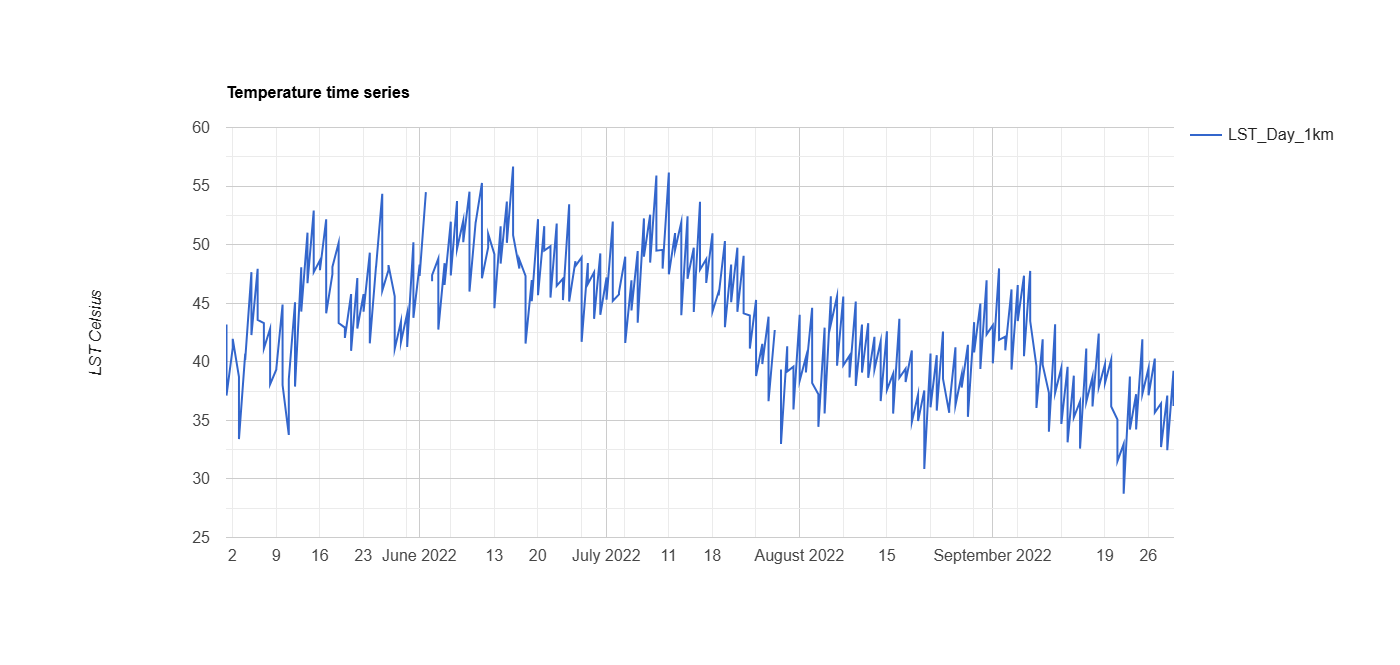
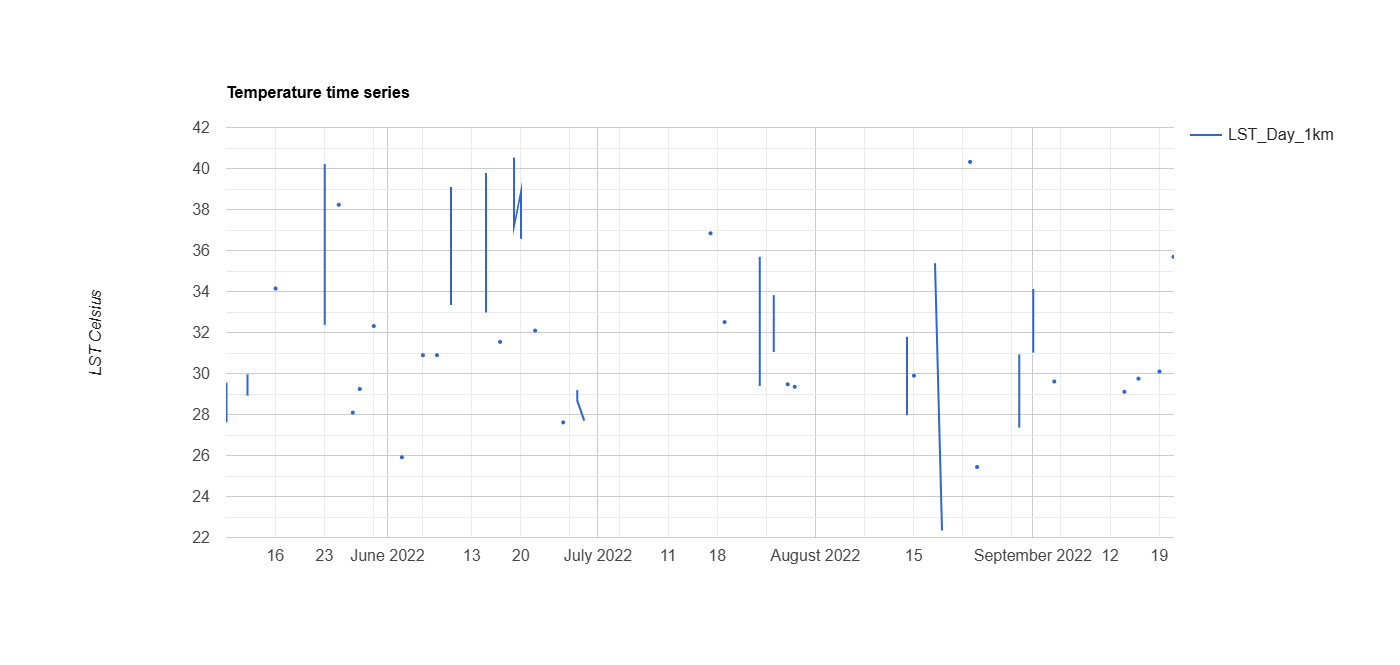
commit

diff --git a/docs/temperature.html b/docs/temperature.html
@@ -390,11 +390,12 @@ div.csl-indent {
   <li><a href="#summary" id="toc-summary" class="nav-link active" data-scroll-target="#summary"><span class="header-section-number">8.1</span> Summary</a>
   <ul class="collapse">
   <li><a href="#land-surface-temperature" id="toc-land-surface-temperature" class="nav-link" data-scroll-target="#land-surface-temperature"><span class="header-section-number">8.1.1</span> Land Surface Temperature</a></li>
-  <li><a href="#urban-heat-island-effect" id="toc-urban-heat-island-effect" class="nav-link" data-scroll-target="#urban-heat-island-effect"><span class="header-section-number">8.1.2</span> Urban Heat Island Effect</a></li>
   </ul></li>
   <li><a href="#applications" id="toc-applications" class="nav-link" data-scroll-target="#applications"><span class="header-section-number">8.2</span> Applications</a>
   <ul class="collapse">
-  <li><a href="#lst-products" id="toc-lst-products" class="nav-link" data-scroll-target="#lst-products"><span class="header-section-number">8.2.1</span> LST Products</a></li>
+  <li><a href="#urban-heat-island-effect" id="toc-urban-heat-island-effect" class="nav-link" data-scroll-target="#urban-heat-island-effect"><span class="header-section-number">8.2.1</span> Urban Heat Island Effect</a></li>
+  <li><a href="#methodological-limitations" id="toc-methodological-limitations" class="nav-link" data-scroll-target="#methodological-limitations"><span class="header-section-number">8.2.2</span> Methodological Limitations</a></li>
+  <li><a href="#products-for-lst" id="toc-products-for-lst" class="nav-link" data-scroll-target="#products-for-lst"><span class="header-section-number">8.2.3</span> Products for LST</a></li>
   </ul></li>
   <li><a href="#reflections" id="toc-reflections" class="nav-link" data-scroll-target="#reflections"><span class="header-section-number">8.3</span> Reflections</a></li>
   </ul>
@@ -423,16 +424,16 @@ div.csl-indent {
 </header>
 
 
-<p>This section will go through how to conduct temperature research through GEE. Building upon the early chapters of discussing Urban Heat Island Effect in <a href="https://christychoicc.github.io/RSCE/policy.html">Policy</a>, this section will focus on land surface temperature……</p>
+<p>This section will be focused on using Google Earth Engine to explore land surface temperature (LST) and compare how thermal patterns vary across different climates, spatial scales and satellite products. Building upon the early chapters of discussing Urban Heat Island Effect (UHI) in <a href="https://christychoicc.github.io/RSCE/policy.html">Policy</a>, this section will also look at how land surface temperature can be used to mitigate UHI and policy relevance.</p>
 <section id="summary" class="level2" data-number="8.1">
 <h2 data-number="8.1" class="anchored" data-anchor-id="summary"><span class="header-section-number">8.1</span> Summary</h2>
 <section id="land-surface-temperature" class="level3" data-number="8.1.1">
 <h3 data-number="8.1.1" class="anchored" data-anchor-id="land-surface-temperature"><span class="header-section-number">8.1.1</span> Land Surface Temperature</h3>
-<p>Land Surface Temperature (LST) is a parameter that reflects land-atmosphere interactions from regional to global scales as well as an indicator that influences vegetation growth <span class="citation" data-cites="li2023a">(<a href="references.html#ref-li2023a" role="doc-biblioref">Li et al. 2023</a>)</span>. Urbanisation, increasing population has caused more land surfaces to be covered with concrete, asphalt and other impervious materials that absorb and retain heat, which contributes to higher land surface temperatures within our urban environments.</p>
+<p>Land Surface Temperature (LST) is a parameter that reflects land-atmosphere interactions from regional to global scales as well as an indicator that influences vegetation growth <span class="citation" data-cites="li2023a">(<a href="references.html#ref-li2023a" role="doc-biblioref">Li et al. 2023</a>)</span>. Urbanisation, increasing population has caused more land surfaces to be covered with concrete, asphalt and other impervious materials that absorb and retain heat. This contributes to higher land surface temperatures within our urban environments, which is a matter policy makers and global goals want to resolve.</p>
 <section id="lst-in-gee" class="level4" data-number="8.1.1.1">
 <h4 data-number="8.1.1.1" class="anchored" data-anchor-id="lst-in-gee"><span class="header-section-number">8.1.1.1</span> LST in GEE</h4>
-<p>The below compares the difference between Landsat and MODIS for temperature analysis with a temperature range between 20°C and 55°C. Landsat gave much more spatial detail, which made it easier to identify finer scale thermal variation and smaller hot and cooler patterns within urban areas. In contrast, MODIS is more coarse, useful for broader wider scale temporal monitoring with its more frequent observations. Taking it further, I have been quite curious to look at how thermal patterns varies across different climate and urban forms. So the following will inspect Bangkok, Thailand (city scale) and Arizona, USA (state scale) under Landsat 8 and MOD</p>
-<p>Bangkok is characterised with a hot, humid and rainy summer climate, which appears to have a more mixed and fragmented temperature pattern, with greater small-scale variation across the urban area.</p>
+<p>The below compares the difference between Landsat and MODIS for temperature analysis with a temperature range between 20°C and 55°C. Landsat gave much more spatial detail, which made it easier to identify finer scale thermal variation and smaller hot and cooler patterns within urban areas. In contrast, MODIS is more coarse, useful for broader wider scale temporal monitoring with its more frequent observations. Taking it further, I have been quite curious to look at how thermal patterns varies across different climate and urban forms. So the following will inspect Bangkok, Thailand (city scale) and Arizona, USA (state scale) LST under Landsat 8 and MODIS.</p>
+<p>Bangkok is characterised with a hot, humid and rainy summer climate. The map below showed mixed and fragmented temperature pattern, with greater small-scale variation across the urban area.</p>
 <div class="quarto-layout-panel" data-layout-ncol="2">
 <div class="quarto-layout-row">
 <div class="quarto-layout-cell" style="flex-basis: 50.0%;justify-content: flex-start;">
@@ -453,7 +454,7 @@ div.csl-indent {
 </div>
 </div>
 </div>
-<p>Arizona in contrast has an extremely hot desert climate. It shows much more extensive high temperature patterns, suggesting a greater extent of hot, consistent with dry surfaces and less cooling influence from the Sonoran Desert.</p>
+<p>Arizona in contrast has an extremely hot desert climate. It shows much more extensive high temperature patterns, suggesting a greater extent of hot, consistent with dry surfaces and less cooling influences from the Sonoran Desert.</p>
 <div class="quarto-layout-panel" data-layout-ncol="2">
 <div class="quarto-layout-row">
 <div class="quarto-layout-cell" style="flex-basis: 50.0%;justify-content: flex-start;">
@@ -483,7 +484,7 @@ div.csl-indent {
 <div class="quarto-layout-cell" style="flex-basis: 50.0%;justify-content: flex-start;">
 <div class="quarto-figure quarto-figure-center">
 <figure class="figure">
-<p><img src="images/w9_images/bkk_CHART.png" class="img-fluid figure-img"></p>
+<p><img src="images/w9_images/LST_CHART.png" class="img-fluid figure-img"></p>
 <figcaption>Bangkok Time Series</figcaption>
 </figure>
 </div>
@@ -491,7 +492,7 @@ div.csl-indent {
 <div class="quarto-layout-cell" style="flex-basis: 50.0%;justify-content: flex-start;">
 <div class="quarto-figure quarto-figure-center">
 <figure class="figure">
-<p><img src="images/w9_images/LST_CHART.png" class="img-fluid figure-img"></p>
+<p><img src="images/w9_images/A_LST_CHART.png" class="img-fluid figure-img"></p>
 <figcaption>Arizona Time Series</figcaption>
 </figure>
 </div>
@@ -499,16 +500,18 @@ div.csl-indent {
 </div>
 </div>
 <div style="border: 1px solid #ddd; border-left: 4px solid #d9534f; padding: 10px 15px; color: #d9534f; border-radius: 4px; margin-bottom: 15px;">
-<p>Note that for MODIS the trade off here is that we get to plot time series but we simultaneously will lose the spatial element…</p>
+<p>MODIS is more useful for plotting time series due to it high observation frequency, yet the trade off here is that when we get to plot time series we will simultaneously lose the spatial element…</p>
 </div>
-<p>Zooming into Arizona, I initially wanted to compare all level 2 administrative units, however, GEE returned the error message “Response size exceeds limit” so I narrowed the analysis to two districts so it is more manageable for GEE. Looking at Maricopa and Pima, both counties show very high summer LST values, with peaks above 50°C, where Maricopa appears slightly hotter overall. This demonstrated the ability to zoom into smaller spatial units, allowing finer thermal variation on county levels to be observed and compared for patterns that may be not seen under a broader regional scale.</p>
+<p><strong>Focusing on one study area now…</strong></p>
+<p>Zooming into Arizona, I initially wanted to compare all level 2 administrative units in one chart, but GEE returned the error message “Response size exceeds limit”, so I narrowed the analysis to two counties, Maricopa and Pima, to make it more manageable. The chart showed that temperatures in both counties stayed consistently high, with the minimum sitting around 30°C and the maximum going above 50°C. Therefore, I adjusted the temperature range so that the visualisation better reflects the actual distribution of values rather than on a less suitable range. This highlighted how this can shape and ease how thermal patterns are interpreted.</p>
+<p>This also made me think of using reducer percentile function <code>reducer: ee.Reducer.percentile([10, 20, 30, 40, 50, 60, 70, 80, 90]</code> or a calculated “Discomfort Index” category based on temperature data can be a more appropriate choice (<a href="https://andrewmaclachlan.github.io/CASA0023/">CASA0023</a>)<span class="citation" data-cites="sobrino2013">(<a href="references.html#ref-sobrino2013" role="doc-biblioref">Sobrino et al. 2013</a>)</span>. This will allow the visualisation range to be based on the distribution of values rather than manually choosing the thresholds by hand.</p>
 <div class="quarto-figure quarto-figure-center">
 <figure class="figure">
 <p><img src="images/w9_images/compare.png" class="img-fluid figure-img"></p>
 <figcaption>Average Temperature Comparison Across Time (Maricopa and Pima)</figcaption>
 </figure>
 </div>
-<p>Looking at the chart it shows that the minimum temperature between the time series is a bit over 30 as a minimum and max temperature exceeding 50. Therefore, try changing minimum maximum temperature below,</p>
+<p>This also showed the importance of scale in temperature analysis. At the broader regional scale, Arizona can appear relatively uniform as an extremely hot desert environment, but looking at county-level time series made finer thermal variation easier to identify. This smaller comparison showed that even within the same wider climate setting, temperature profiles are not identical and can vary over time. It also taught me something practical about the limits of GEE, since trying to include all level 2 units at once resulted in the “Response size exceeds limit” error. In that sense, the limitation was not only technical but also methodological, because it forced me to simplify the analysis and think more carefully about which scale of comparison was actually most useful. This suggests that the way results are interpreted depends heavily on the spatial unit chosen, and that broader summaries may hide local thermal differences that become clearer when the analysis is narrowed down.</p>
 <div class="quarto-layout-panel" data-layout-ncol="2">
 <div class="quarto-layout-row">
 <div class="quarto-layout-cell" style="flex-basis: 50.0%;justify-content: flex-start;">
@@ -534,8 +537,8 @@ div.csl-indent {
 <caption>Sources: <span class="citation" data-cites="li2013">Li et al. (<a href="references.html#ref-li2013" role="doc-biblioref">2013</a>)</span>, <span class="citation" data-cites="li2023a">Li et al. (<a href="references.html#ref-li2023a" role="doc-biblioref">2023</a>)</span>, <span class="citation" data-cites="rasul2017">Rasul et al. (<a href="references.html#ref-rasul2017" role="doc-biblioref">2017</a>)</span></caption>
 <thead>
 <tr class="header">
-<th>Strengths</th>
-<th>Limitations</th>
+<th>LST Strengths</th>
+<th>LST Limitations</th>
 </tr>
 </thead>
 <tbody>
@@ -560,53 +563,31 @@ div.csl-indent {
 </table>
 </section>
 </section>
-<section id="urban-heat-island-effect" class="level3" data-number="8.1.2">
-<h3 data-number="8.1.2" class="anchored" data-anchor-id="urban-heat-island-effect"><span class="header-section-number">8.1.2</span> Urban Heat Island Effect</h3>
-<p>Temperature analysis has been widely used in literature to study urban heat island (UHI) and surface urban heat island (SUHI) to supporting planning decisions.</p>
-<section id="impacts" class="level4" data-number="8.1.2.1">
-<h4 data-number="8.1.2.1" class="anchored" data-anchor-id="impacts"><span class="header-section-number">8.1.2.1</span> Impacts</h4>
-<table class="caption-top table">
-<colgroup>
-<col style="width: 13%">
-<col style="width: 86%">
-</colgroup>
-<thead>
-<tr class="header">
-<th></th>
-<th>Impacts</th>
-</tr>
-</thead>
-<tbody>
-<tr class="odd">
-<td>Social</td>
-<td><ul>
-<li><p>Health implications such as respiratory illnesses, etc.</p></li>
-<li><p>Negatively impact the vulnerable population (people of old age, autoimmunity, etc.)</p></li>
-<li><p>Increase mortality rates</p></li>
-</ul></td>
-</tr>
-<tr class="even">
-<td>Economic</td>
-<td></td>
-</tr>
-<tr class="odd">
-<td>Environment</td>
-<td></td>
-</tr>
-</tbody>
-</table>
-</section>
-<section id="policy" class="level4" data-number="8.1.2.2">
-<h4 data-number="8.1.2.2" class="anchored" data-anchor-id="policy"><span class="header-section-number">8.1.2.2</span> Policy</h4>
-</section>
-</section>
 </section>
 <section id="applications" class="level2" data-number="8.2">
 <h2 data-number="8.2" class="anchored" data-anchor-id="applications"><span class="header-section-number">8.2</span> Applications</h2>
-<p>Remote sensing approaches are widely recognised for improving understanding of the spatial and temporal variability of urban climate over the long term. Yet it does have limitations, particularly in data accuracy, as satellites capture surface conditions indirectly and cloud cover can distort the reliability of thermal imagery. Some studies focus on nighttime thermal imagery as higher daytime solar radiation is likely to increase boundary-layer instability and cloud formation, making observations less consistent <span class="citation" data-cites="hu2013">(<a href="references.html#ref-hu2013" role="doc-biblioref">Hu and Brunsell 2013</a>)</span>. Others use temporally composited products, typically from MODIS, to reduce missing data impacted by cloud cover.</p>
-<p>Furthermore, studies have incorporate land cover patterns to identify any influences in temperature.</p>
-<section id="lst-products" class="level3" data-number="8.2.1">
-<h3 data-number="8.2.1" class="anchored" data-anchor-id="lst-products"><span class="header-section-number">8.2.1</span> LST Products</h3>
+<section id="urban-heat-island-effect" class="level3" data-number="8.2.1">
+<h3 data-number="8.2.1" class="anchored" data-anchor-id="urban-heat-island-effect"><span class="header-section-number">8.2.1</span> Urban Heat Island Effect</h3>
+<section id="approaches" class="level4" data-number="8.2.1.1">
+<h4 data-number="8.2.1.1" class="anchored" data-anchor-id="approaches"><span class="header-section-number">8.2.1.1</span> Approaches</h4>
+<p>Temperature analysis has been widely used in literature to study urban heat island (UHI) and surface urban heat island (SUHI) to supporting planning decisions. Studies have incorporate land cover patterns to identify any influences in temperature. Very relevant to planning, UHI and SUHI studies are often linked to questions of heat exposure, green infrastructure, and climate adaptation.</p>
+</section>
+<section id="policy-relevance" class="level4" data-number="8.2.1.2">
+<h4 data-number="8.2.1.2" class="anchored" data-anchor-id="policy-relevance"><span class="header-section-number">8.2.1.2</span> Policy Relevance</h4>
+</section>
+</section>
+<section id="methodological-limitations" class="level3" data-number="8.2.2">
+<h3 data-number="8.2.2" class="anchored" data-anchor-id="methodological-limitations"><span class="header-section-number">8.2.2</span> Methodological Limitations</h3>
+<p>Remote sensing approaches are widely recognised for improving understanding of the spatial and temporal variability of urban climate over the long term. Yet it does have limitations, particularly in data accuracy, as satellites capture surface conditions indirectly and cloud cover can distort the reliability of thermal imagery. Most use temporally composite products, typically from MODIS, to reduce missing data impacted by cloud cover. Alternatively, some studies focus on nighttime thermal imagery as higher daytime solar radiation is likely to increase boundary-layer instability and cloud formation, making observations less consistent <span class="citation" data-cites="hu2013">(<a href="references.html#ref-hu2013" role="doc-biblioref">Hu and Brunsell 2013</a>)</span>. As seen below, night time has relatively fewer black pixels of missing or masked data:</p>
+<div class="quarto-figure quarto-figure-center">
+<figure class="figure">
+<p><img src="images/w9_images/daynight.jpg" class="img-fluid figure-img"></p>
+<figcaption>Day and Night Differences in LST, Source: <span class="citation" data-cites="hu2013">Hu and Brunsell (<a href="references.html#ref-hu2013" role="doc-biblioref">2013</a>)</span></figcaption>
+</figure>
+</div>
+</section>
+<section id="products-for-lst" class="level3" data-number="8.2.3">
+<h3 data-number="8.2.3" class="anchored" data-anchor-id="products-for-lst"><span class="header-section-number">8.2.3</span> Products for LST</h3>
 <table class="caption-top table">
 <caption>Sources: <span class="citation" data-cites="li2023a">Li et al. (<a href="references.html#ref-li2023a" role="doc-biblioref">2023</a>)</span></caption>
 <colgroup>
@@ -648,7 +629,7 @@ div.csl-indent {
 </section>
 <section id="reflections" class="level2" data-number="8.3">
 <h2 data-number="8.3" class="anchored" data-anchor-id="reflections"><span class="header-section-number">8.3</span> Reflections</h2>
-<p>During my exploration in GEE, I realised how cloud coverage can affect temperature outputs. Comparing the two cloud removing approaches has showed me how different pre-processing nethods can affect temperature outputs. Using cloud cover filter still left a suspicious cool edge on the left side of the city, whereas the QA_PIXEL mask removed that area entirely, suggesting it was likely to be clouds instead of a real temperature pattern. This make me realise that filtering cloud cover is not always “the best” choice, especially in this case for temperature analysis as cloud coverage can still remain in parts of the image. Given that, pixel level masking seems to be a better option for more reliable outputs, yet it also creates a trade off in reducing the amount of usable data…</p>
+<p>I am really stressing over clouds here. During my exploration in GEE, I realised how cloud coverage can really affect temperature outputs. Comparing the two cloud removing approaches has showed me how different pre-processing nethods can affect temperature outputs. Using cloud cover filter still left a suspicious cool edge on the left side of the city, whereas the QA_PIXEL mask removed that area entirely, suggesting it was likely to be clouds instead of a real temperature pattern. This make me realise that filtering cloud cover is not always “the best” choice, especially in this case for temperature analysis as cloud coverage can still remain in parts of the image. Given that, pixel level masking seems to be a better option for more reliable outputs, yet it also creates a trade off in reducing the amount of usable data…</p>
 <div class="quarto-layout-panel" data-layout-ncol="2">
 <div class="quarto-layout-row">
 <div class="quarto-layout-cell" style="flex-basis: 50.0%;justify-content: flex-start;">
@@ -669,7 +650,7 @@ div.csl-indent {
 </div>
 </div>
 </div>
-<p>Apart from atmospheric effects, LST also depends on a many other decisions, including scale, data processing methods and interpretation. Even with these limitations, it is still a useful tool for studying climate adaptation, environmental justice, urban planning and potentially public health, especially when combined with demographic or land-cover data. I feel like there is still a lot more to explore with LST, such as LST with NDVI, NDWI, NDBI and NMDI, etc. and it is something I would be interested in exploring further in the future.</p>
+<p>Apart from atmospheric effects, LST also depends on a many other decisions, including scale, data processing methods and interpretation. Even with these limitations, it is still a useful tool for studying climate adaptation, environmental justice, urban planning and potentially public health, especially when combined with demographic or land-cover data. I feel like there is still a lot more to explore with LST, such as LST with NDVI, NDWI, NDBI and NMDI, etc. and is definitely something I would be interested in exploring further in the near future.</p>
 
 
 <div id="refs" class="references csl-bib-body hanging-indent" data-entry-spacing="0" role="list" style="display: none">
@@ -684,6 +665,9 @@ Li, Zhao-Liang, Hua Wu, Si-Bo Duan, Wei Zhao, Huazhong Ren, Xiangyang Liu, Pei L
 </div>
 <div id="ref-rasul2017" class="csl-entry" role="listitem">
 Rasul, Azad, Heiko Balzter, Claire Smith, John Remedios, Bashir Adamu, José A. Sobrino, Manat Srivanit, and Qihao Weng. 2017. <span>“A Review on Remote Sensing of Urban Heat and Cool Islands.”</span> <em>Land</em> 6 (2): 38. <a href="https://doi.org/10.3390/land6020038">https://doi.org/10.3390/land6020038</a>.
+</div>
+<div id="ref-sobrino2013" class="csl-entry" role="listitem">
+Sobrino, Jose, R. Oltra-Carrió, Guillem Sòria Barres, Juan-Carlos Jimenez, B. Franch, Valentina Hidalgo, Cristian Mattar, et al. 2013. <span>“Evaluation of the Surface Urban Heat Island Effect in the City of Madrid by Thermal Remote Sensing.”</span> <em>International Journal of Remote Sensing</em> 34 (May): 3177. <a href="https://doi.org/10.1080/01431161.2012.716548">https://doi.org/10.1080/01431161.2012.716548</a>.
 </div>
 </div>
 </section>

diff --git a/docs/references.html b/docs/references.html
@@ -640,6 +640,13 @@ Meta-Analysis and Systematic Review.”</span> <em>IEEE Journal of
 Selected Topics in Applied Earth Observations and Remote Sensing</em>,
 October. <a href="https://doi.org/10.1109/JSTARS.2020.3026724">https://doi.org/10.1109/JSTARS.2020.3026724</a>.
 </div>
+<div id="ref-sobrino2013" class="csl-entry" role="listitem">
+Sobrino, Jose, R. Oltra-Carrió, Guillem Sòria Barres, Juan-Carlos
+Jimenez, B. Franch, Valentina Hidalgo, Cristian Mattar, et al. 2013.
+<span>“Evaluation of the Surface Urban Heat Island Effect in the City of
+Madrid by Thermal Remote Sensing.”</span> <em>International Journal of
+Remote Sensing</em> 34 (May): 3177. <a href="https://doi.org/10.1080/01431161.2012.716548">https://doi.org/10.1080/01431161.2012.716548</a>.
+</div>
 <div id="ref-solecki2015" class="csl-entry" role="listitem">
 Solecki, William, Cynthia Rosenzweig, Reginald Blake, Alex de Sherbinin,
 Tom Matte, Fred Moshary, Bernice Rosenzweig, et al. 2015. <span>“New
